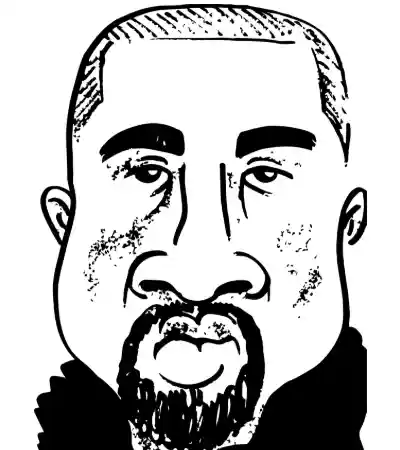
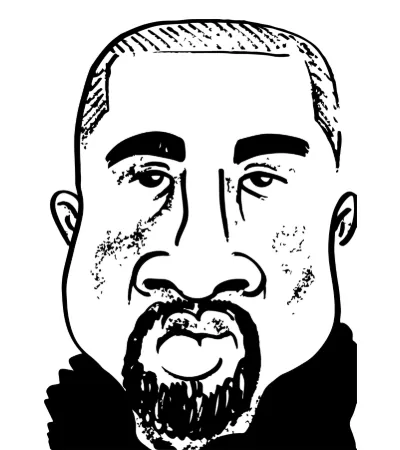
Swapped Kanye West for Bing

Changed region(s): [[0.09, 0.0, 0.93, 1.0], [0.09, 0.8711, 0.15, 1.0], [0.66, 0.4978, 0.78, 0.56]]

diff --git a/index.html b/index.html
@@ -206,14 +206,14 @@
       <div class="row">
         <div class="caricature">
           <picture>
-            <source srcset="images/bingcrosby.webp" type="image/webp" sizes="(max-width: 600px) 100vw, 50vw" width="400"
+            <source srcset="images/kanyeWest.webp" type="image/webp" sizes="(max-width: 600px) 100vw, 50vw" width="400"
               height="450">
-            <img src="images/bingcrosby.jpg"
-              alt="Celebrity caricature of singer and actor Bing Crosby by Houston-based caricature artist Steven Simon"
-              title="Bing Crosby" width="400" height="450" style="max-width: 100%; height: auto;" loading="lazy"
+            <img src="images/kanyeWest.jpeg"
+              alt="Celebrity caricature of rapper and producer Kanye West by Houston-based caricature artist Steven Simon"
+              title="Kanye West" width="400" height="450" style="max-width: 100%; height: auto;" loading="lazy"
               decoding="async">
           </picture>
-          <p class="text">Bing Crosby</p>
+          <p class="text">Kanye West</p>
         </div>
 
         <div class="caricature">